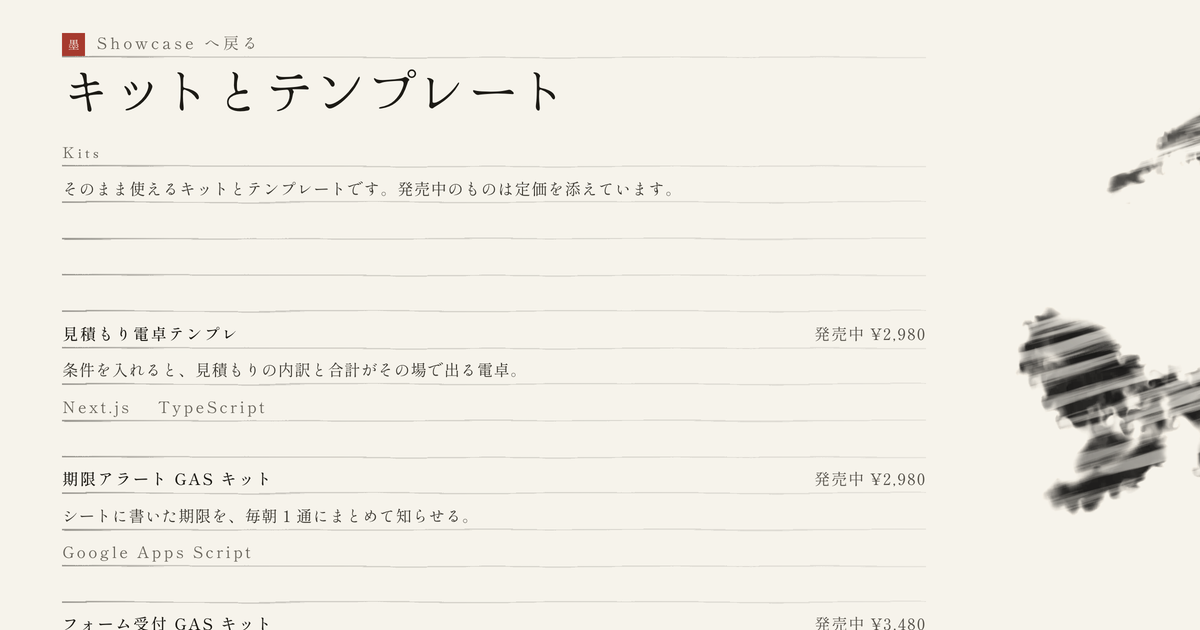
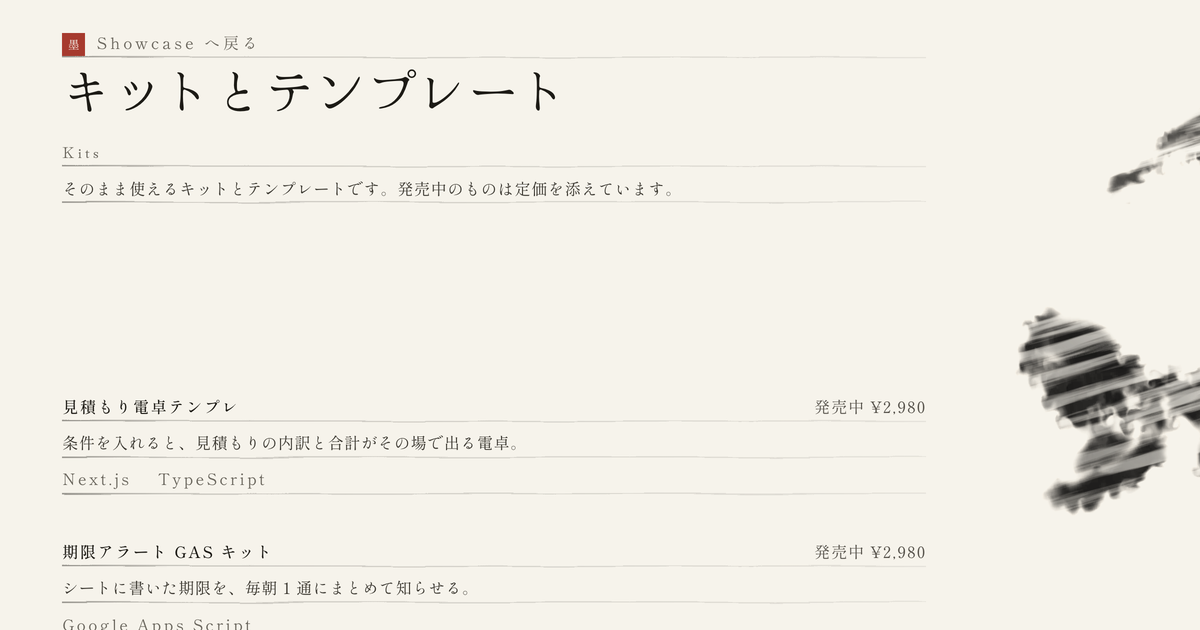
罫を字のある行にだけ引き、塊のあいだを罫 5 本ぶんの紙の地にする
・罫は塊ごとの版面をやめ、字の行の箱の背景として引く。行の高さはどれも
  罫の整数倍なので、罫は必ず字の下に来て、行と行のあいだには出ない
  （折り返した行には 2 本）。残した版面は、名乗りの帯（大字の足元・送り・
  英文の 3 行、紙幅）と分類のページの頭だけ
・塊と塊のあいだは罫の無い紙の地を罫 5 本ぶん（1280 で約 185px、390 でも
  同じ本数）。英文の下の空の罫と、4 点の下の空の罫はなくなった
・濡れた罫は行の箱の中だけにし、字の無い所に濡れた罫を生やさない
・結び・品書き・注記の幅を塊の幅にそろえ、罫の長さをそろえた

罫だけの紙を焼いて 5 面 × 6 幅を検査: 字の無い罫 0（名乗りの帯を除く）、
罫の無い字の行 0、字の帯を横切る罫 0。墨・脈・「WA」の関係は変えていない
（6 幅で実測）。全長は 1280 で 2,251px、390 で 2,101px。

diff --git a/src/app/ryoushi.module.css b/src/app/ryoushi.module.css
@@ -127,11 +127,11 @@
      件数は日本語の下の罫へ置くので、どの幅でも 8 本。本脈の書き出しと
      名乗りの帯の罫の位置がこれを読む */
   --hi-gates-rows: 8;
-  /* 塊と塊のあいだは【その塊の最後の行の下に空の罫 3 本】で一律（2026-09-23）。
-     名乗り → 入口、入口 → 4 点、4 点 → ご相談、頭 → 一覧、一覧 → 結び、の全部。
-     空きは次の塊の上ではなく【前の塊の中】（padding）に取る ── 罫は前の塊の
-     版面がそのまま引き受けるので、字の下に罫が 3 本続き、上には溜まらない */
-  --hi-block-gap: calc(3 * var(--hi-kei-pitch));
+  /* 塊と塊のあいだは【罫の無い紙の地】を罫 5 本ぶん（2026-09-23）。
+     名乗り → 入口、入口 → 4 点、4 点 → ご相談、頭 → 一覧、一覧 → 結び の全部。
+     罫は【字のある行】にだけ引く ── 塊のあいだに空の罫を並べると、
+     見出しの上や塊の下に字の無い罫が溜まって、紙が罫線ノートに見えた */
+  --hi-block-gap: calc(5 * var(--hi-kei-pitch));
   --hi-gates-gap: var(--hi-block-gap);
   /* 分類のページの題。作品ページの「大」と同じ寸法で、同じ役（面の名乗り）を持つ */
   --hi-large: clamp(1.75rem, 4.2vw, 3rem); /* 28 → 48px */
@@ -294,12 +294,9 @@
    敷き始めを pitch の整数倍ずらしても位相は狂わない ── これが重ね合わせの前提。
    罫はすべて擬似要素なので DOM にもアクセシビリティツリーにも現れず、
    pointer-events も持たない。 */
-.mark::before,
 .mark::after,
 .head::before,
-.shelf::before,
-.row::after,
-.close::before {
+.row::after {
   content: "";
   position: absolute;
   z-index: -2;
@@ -309,6 +306,31 @@
   background-image: var(--hi-kei-line);
   background-repeat: repeat-y;
   background-size: 100% calc(3 * var(--hi-kei-pitch));
+}
+
+/*
+ * 字のある行の罫（2026-09-23）。
+ * 罫は塊ごとの版面ではなく【字の行の箱の背景】として引く ── 行の高さは
+ * どれも罫の整数倍（小の字の行送り 2.3 ＝ ちょうど 1 行）なので、行の上端から
+ * 敷けば罫は必ず字の下に来て、行と行のあいだの空き（margin）には一本も出ない。
+ * 折り返して 2 行になった行には 2 本引かれる。
+ * 幅は行の箱の幅 ── 塊の中の行はどれも塊の幅いっぱいに組んである。
+ */
+.showcase,
+.gate,
+.shelfName,
+.text,
+.closeHead,
+.menuItem,
+.closeText,
+.closeLinks,
+.closeLine,
+.menuNote,
+.step {
+  background-image: var(--hi-kei-line);
+  background-repeat: repeat-y;
+  background-size: 100% calc(3 * var(--hi-kei-pitch));
+  background-position: 0 0;
 }
 
 /* ==========================================================================
@@ -590,7 +612,13 @@
      前の段へ食い込むこともない ── 終点 x と次の始点 x は変わらないので繋ぎ目は飛ばない */
   /* 書き出しは【名乗りの塊のすぐ下】── 英文の行の直下。
      名乗りの段の下端から数えて 余白 1 行 ＋ 入口（--hi-gates-rows 行）＋ 送り 6 行 */
-  top: calc(-1 * (6 + var(--hi-gates-rows)) * var(--hi-kei-pitch));
+  top: calc(
+    -1 *
+      (
+        var(--hi-block-gap) + var(--hi-gates-rows) * var(--hi-kei-pitch) +
+          var(--hi-gates-gap)
+      )
+  );
 }
 
 @keyframes hi-myaku {
@@ -667,15 +695,15 @@
  */
 .mark::after {
   /*
-   * 名乗りの帯の罫。大字の足元の一本・送りの一本・英文（と落款）が座る一本と、
-   * その下の空き（空の罫 3 本）を、紙幅いっぱいに一枚で敷く。
-   * 下から測る（下の寸法が全部罫の整数倍）。下端は入口 3 行の上端で、
-   * そこから下は入口の版面（::before）が同じ位相で続きを引き受ける ──
-   * 二枚は接するだけで重ならない。上端だけ消え際を持たせ、大字の足元で
-   * 罫が書き出す。
+   * 名乗りの帯の罫。大字の足元の一本・送りの一本・英文（と落款）が座る一本の
+   * 3 行だけを、紙幅いっぱいに引く。英文の下（入口までの空き）には引かない。
+   * 下から測る（下の寸法が全部罫の整数倍）── 余白（空き）＋ 入口の行 ＋ 空き。
    */
-  bottom: calc((3 + var(--hi-gates-rows)) * var(--hi-kei-pitch));
-  height: calc(3 * var(--hi-kei-pitch) + var(--hi-gates-gap));
+  bottom: calc(
+    var(--hi-block-gap) + var(--hi-gates-rows) * var(--hi-kei-pitch) +
+      var(--hi-gates-gap)
+  );
+  height: calc(3 * var(--hi-kei-pitch));
   background-position: 0 100%;
   mask-image: linear-gradient(
     to bottom,
@@ -685,15 +713,6 @@
   );
 }
 
-.mark::before {
-  /* 入口 3 行の版面。柱の幅にだけ引く（柱の左は紙の地のまま）。
-     入口の行と、その下の空き（空の罫 3 本）を覆い、段の下端でぴたりと終わる ──
-     次の段（いま見てほしいもの）は、ここから切れ目なく同じ位相で続く */
-  bottom: 0;
-  height: calc((3 + var(--hi-gates-rows)) * var(--hi-kei-pitch));
-  left: var(--hi-column);
-  background-position: 0 100%;
-}
 
 .showcase {
   position: relative;
@@ -705,20 +724,6 @@
 }
 
 /* 柱題の下の一本。字の行には必ず罫を通す（大字の帯だけは通さない） */
-.showcase::after {
-  content: "";
-  position: absolute;
-  z-index: -2;
-  left: 0;
-  right: 0;
-  top: 0;
-  height: var(--hi-kei-pitch);
-  pointer-events: none;
-  background-image: var(--hi-kei-line);
-  background-repeat: repeat-y;
-  background-size: 100% calc(3 * var(--hi-kei-pitch));
-  background-position: 0 0;
-}
 
 .wordmark {
   font-family: var(--hi-serif-display);
@@ -988,19 +993,7 @@
  * 大きいので、隣の段の版面と重なることはない ── 罫が二本に割れる条件を作らない。
  * ホバー規則は一つも持たない ── 罫は紙の支度であって、出来事ではない。
  */
-.shelf:has(.withFig) {
-  /* 図版つきの一覧は、最後の行が図版の高さ（4 行）で字（3 行）より 1 行長い。
-     その一行が空の罫になるので、下の空きは 2 行で「空の罫 3 本」になる */
-  padding-bottom: calc(2 * var(--hi-kei-pitch));
-}
 
-.shelf::before {
-  /* 段の版面は段の箱ちょうど（上端から下の空きの終わりまで）。張り出さない ──
-     上へ張り出すと見出しの上に空の罫が溜まり、下が足りなくなる */
-  top: 0;
-  bottom: 0;
-  background-position: 0 0;
-}
 
 /*
  * 段の頭 ── 名（KITS）と、その段に並ぶものを一度だけ言う一行。
@@ -1190,8 +1183,10 @@
  * すべて水（.flow）から借りている。単独のトリガも単独の時間も持たない。
  */
 .row::after {
-  top: calc(-1 * var(--hi-wet-y));
-  bottom: calc(-1 * var(--hi-wet-y));
+  /* 行の箱の中だけ。静止の罫が字の行にしか無いので、水が届いても
+     字の無い所に濡れた罫を生やさない */
+  top: 0;
+  bottom: 0;
   background-image: var(--hi-kei-line-wet);
   background-position: 0 0;
   mask-image: var(--hi-wet-cloud);
@@ -1401,7 +1396,6 @@
      献立表としての対応が切れる（実測で 1 行目に 460px の空きが開いた）。
      50em は、いちばん長い目安（既製キットの導入は…40,000 円から）が
      題と同じ罫に収まる下限である */
-  max-width: 52em;
 }
 
 /* 段の中の小見出し。段を二つに割らずに話題を継ぐ ── 上に空の罫を二本置く */
@@ -1442,7 +1436,6 @@
   line-height: 2.3;
   letter-spacing: 0.05em;
   color: var(--hi-sumi-2);
-  max-width: 40em;
 }
 
 /* 文の中に置く宛先。作品ページの .textLink と同じ文法をそのまま使う ──
@@ -1474,13 +1467,10 @@
   margin-top: 0;
   /* 結語の下も空の罫 3 本（結語の margin-bottom 1 本 ＋ ここ 2 本）で紙を閉じる */
   padding-bottom: calc(2 * var(--hi-kei-pitch));
+  /* 行ごとに幅を持たせず、結びの塊として止める（罫の長さがそろう） */
+  max-width: 44em;
 }
 
-.close::before {
-  top: 0;
-  bottom: 0;
-  background-position: 0 0;
-}
 
 /* 結びの見出し。字は段の名（.shelfName）と同じ「小」── 紙の上で見出しを
    名乗るのはこの一種類だけで、大きさでも太さでもなく字間だけが見出しを作る */
@@ -1507,7 +1497,6 @@
   list-style: none;
   margin: var(--hi-kei-pitch) 0 0;
   padding: 0;
-  max-width: 44em;
 }
 
 /* 目安の一文と、その先の頼み方。金額はもう上の 3 行が言っているので、
@@ -1518,7 +1507,6 @@
   line-height: 2.3;
   letter-spacing: 0.05em;
   color: var(--hi-sumi-2);
-  max-width: 40em;
 }
 
 /* 飛び先は二つ（頼めることと目安・宛先）。空き罫を一本はさんでから置く ──
@@ -1659,7 +1647,7 @@
  */
 .head::before {
   top: 0;
-  bottom: 0;
+  bottom: var(--hi-block-gap);
   background-position: 0 0;
   --hi-head-title-top: var(--hi-kei-pitch);
   --hi-head-title-h: round(
@@ -1733,7 +1721,6 @@
   line-height: 2.3;
   letter-spacing: 0.06em;
   color: var(--hi-sumi-2);
-  max-width: 40em;
 }
 
 /* 頭と一覧のあいだは罫 2 本（頭の下余白 1 行 ＋ ここ 1 行）。頭の版面は
